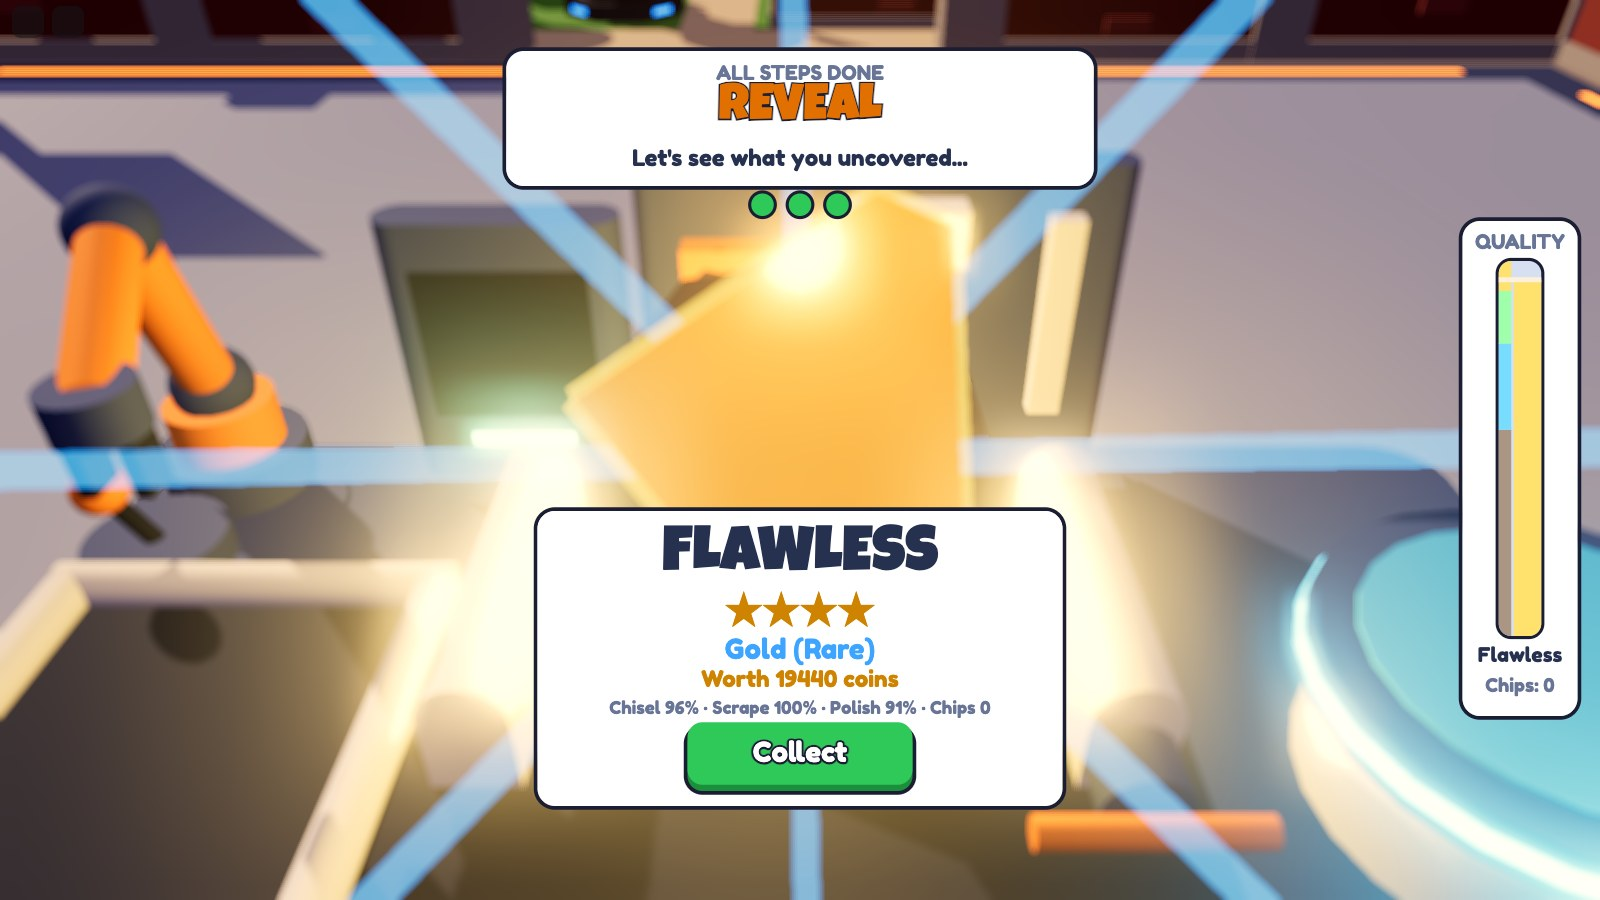
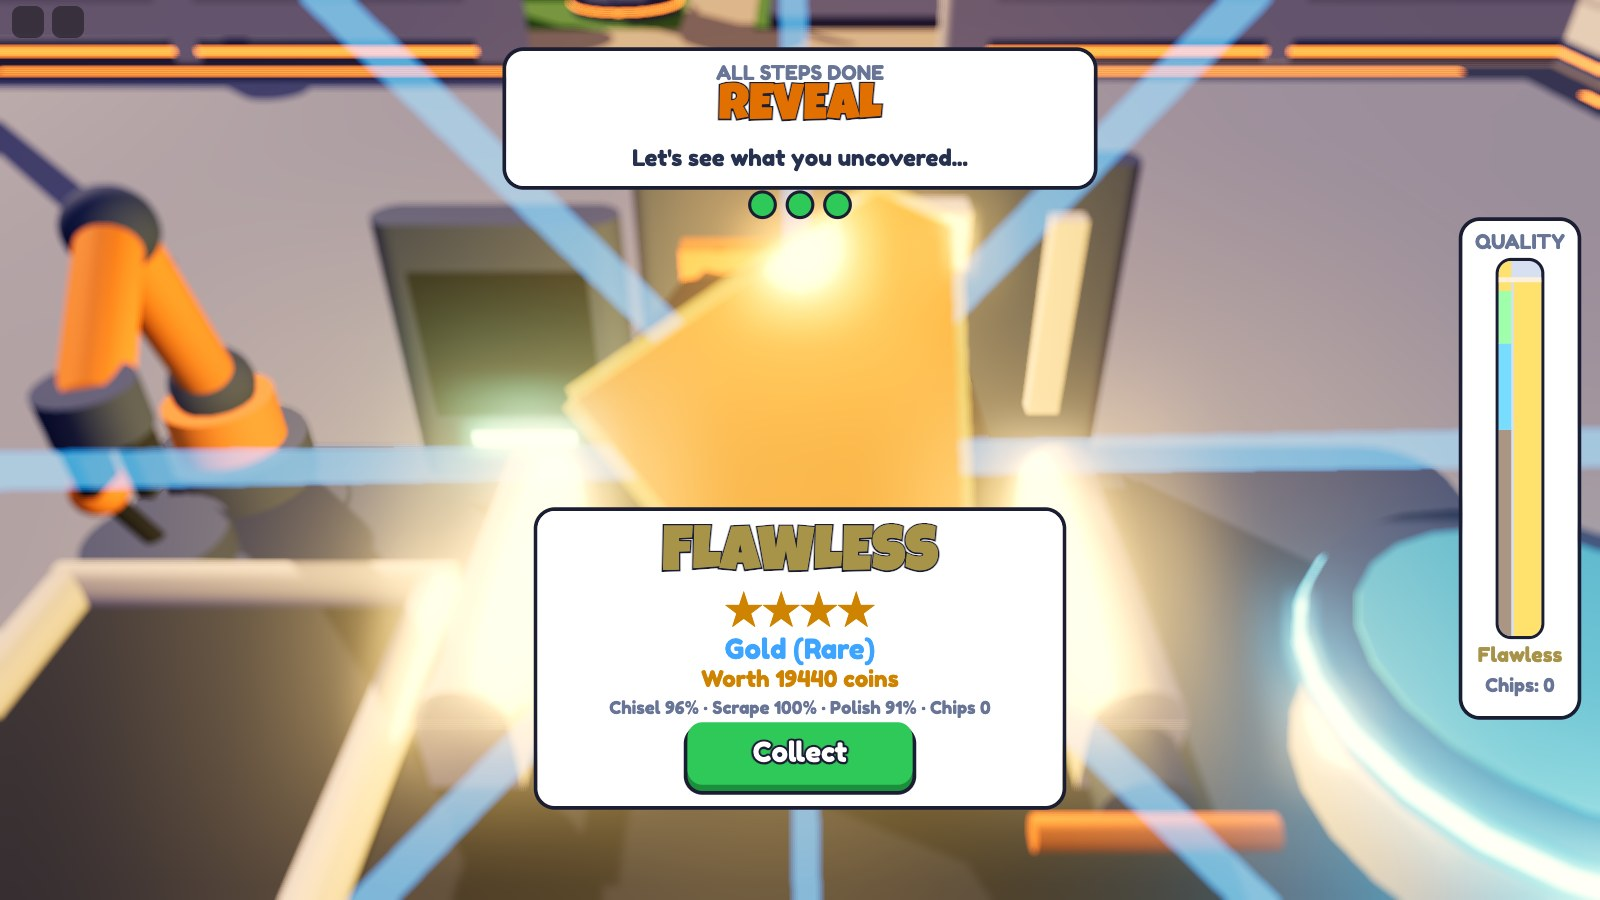
Light UI ON: UIConfig.Default = true; DECK/GROUND, STAR FORGE and rarity colours in the light look
- the switch: UIConfig.Default = true (owner's go 2026-10-20, relayed by the watcher)
- BuildView's light path gets the platforms' DECK / GROUND toggle (setLayer
  writes the light button's label)
- LightSkin maps the STAR FORGE tabs (RebirthView.Colors) and keeps bright
  rarity / grade colours' hue a shade darker on light panels instead of ink
  (the cleaning and relic card)
- HudBubble.EntryLooks: Rebirth (rebirth icon, Rebirth role); HOVER gets a
  hoverboard emoji stand-in
- yard / vault_shop previews follow UIConfig.Default
- elevator window + ride, hoverboard panel, crate opening, loading screen keep
  their own look on purpose
- handoff doc + overview picture docs/screenshots/ui_light_game/prehled_zapnuto.jpg
- check.sh: ALL CHECKS PASSED, 1476 passed / 0 failed

diff --git a/docs/handoff/UI_LIGHT_SWITCH_ON.md b/docs/handoff/UI_LIGHT_SWITCH_ON.md
@@ -1,47 +1,37 @@
-# Turning the light UI on (after the owner's ANO)
+# The light UI is ON (2026-10-20)
 
-**Pro majitele:** Nové světlé UI je hotové a schované ve hře za vypínačem, který je zatím vypnutý. Až napíšeš „ano“, zapnu ho jedním přepínačem a sloučím ho do hlavní verze hry. Ikonky se ukážou, až nahraješ 5 obrázků ze složky `NAHRAJ_DO_ROBLOXU/ikony_ui` a pošleš mi jejich čísla. Kdyby se ti po zapnutí něco nelíbilo, vypnu ho zpátky během pár minut a hra bude vypadat přesně jako dnes.
+**Pro majitele:** Nové světlé UI je zapnuté (`ui/light`, čeká na sloučení do hlavní verze hry). Ikonky zatím ukazují smajlíky, dokud nenahraješ 5 obrázků ze složky `NAHRAJ_DO_ROBLOXU/ikony_ui` a nepošleš mi jejich čísla. Kdyby se ti něco nelíbilo, vypnu ho zpátky během pár minut a hra bude vypadat jako předtím.
 
-Branch `ui/light` (worktree `projekt/.claude/worktrees/ui-light`), everything behind
-`UIConfig.LightUI` (`src/shared/Config/UIConfig.luau`), which ships **false**. While it is false every
-player sees today's UI (`tests/LightUI.spec.luau` checks it). Studio test without code changes:
-`NoveUI_TEST.rbxl` in the KIT folder (Workspace attribute `LightUI = true` baked in), or set that
-attribute on Workspace in any place before Play.
+Branch `ui/light` (worktree `projekt/.claude/worktrees/ui-light`). The switch is `UIConfig.Default`
+(`src/shared/Config/UIConfig.luau`), **true** since the owner's go (2026-10-20, relayed by the
+watcher). The test runner pins `LightUI = false` (`tools/lune/test.luau`) so the old-path specs keep
+testing the dark UI; `tests/LightUI.spec.luau` switches it on itself. Overview picture:
+`docs/screenshots/ui_light_game/prehled_zapnuto.jpg`.
 
 ## What the switch changes
-- HUD (`HudView` → `HudBubble`, same refs), teleport tabs + LIFT tile, BUILD tile, offline popup.
-- Windows: Blaster Vault, build mode, Ore Pen (own light code); Sell, Tech Shop, Train, Iron Box,
-  Foundry, Cleaning, Tutorial (`LightSkin` on the same windows).
+- HUD (`HudView` → `HudBubble`, same refs), teleport tabs (BASE / LOBBY / VAULT), the left tiles
+  (BACKPACK, GOLEMS, BUILD, SHOP, ELEVATOR + MORE flyout from `SideMenuView.Entries`; the old side
+  column hides), offline popup.
+- Windows: Blaster Vault, build mode (incl. the DECK / GROUND toggle), Ore Pen (own light code);
+  Sell, Tech Shop, Train, Iron Box, Foundry, Cleaning (incl. the relic card), Tutorial, the steps 6-7
+  windows, MenuPanel windows (Codex, Settings, Boards, STAR FORGE rebirth) wear `LightSkin`.
+- Icons: 3D pictures from `IconAssets` once the 5 sheet ids are in; until then `Bubble.icon` shows
+  an emoji (`IconAssets.fallback`).
 - World: every BillboardGui gets the navy-edged light labels; every ProximityPrompt shows the light
   pill (`LightWorldController`). The mine floors' `RockLabel` is skipped (its owner styles it).
 - Devices: gold gamepad selection outline, D-pad order in the left menu and the tabs, safe insets,
   touch controls hidden while a light window is open.
-- Not converted yet: the steps 6-7 windows (capsules, golems, wheel, codex, artifacts, boards,
-  settings, gear, enchants, boosts, Robux store). They keep the dark look until converted.
-  The elevator window stays dark on purpose (owner).
+- Stay in their own look on purpose: the elevator window and its ride (owner), the hoverboard panel
+  (the elevator's neon sibling), the crate opening and the loading screen.
 
-## Order after the ANO
-1. **Merge main into `ui/light`** (`git fetch origin && git merge origin/claude/keen-wozniak-mx7azn`), fix
-   conflicts (expect small ones at the top of `HudView`, `TeleportView`, `TechShopView`, `render.mjs`:
-   keep both sides; the light paths are always `if UIConfig.lightUI() / if topBar:GetAttribute("Bubble")`
-   branches next to the old code), `bash tools/check.sh` → ALL CHECKS PASSED.
-2. **Icons**: the owner uploads `ikony_1_ui.png` … `ikony_5_artefakty.png` (guide:
+## Still to do
+1. **Icons**: the owner uploads `ikony_1_ui.png` … `ikony_5_artefakty.png` (guide:
    `NAHRAJ_DO_ROBLOXU/ikony_ui/NAVOD.md`) and sends 5 ids → paste them into `IconAssets.Sheets[*].Id`
-   (`src/shared/Config/IconAssets.luau`, in the sheet order: Ui, Golems, Machines, Menus, Artifacts).
-   Without ids the UI still works (tiles show their labels, no pictures).
-3. **Flip the switch**: `UIConfig.LightUI = true`. Answer the owner's LIFT question first if it came
-   (4th tab or left tile; today it is a left tile, `HudBubble.GameMenu`).
-4. `bash tools/check.sh`, rebuild the place (`bash tools/build.sh`, commit `build/TerraForge.rbxl`
-   only on the main branch, never on `ui/light`), render `docs/screenshots/ui_light_game/` again
-   (`LIGHT_UI` is now the default, so the normal preview commands show the light UI).
-5. **Ping "TERRA FORGE Roblox hra vývoj"** (the integrator) and wait for its "ok" before merging
-   `ui/light` into `claude/keen-wozniak-mx7azn`; it re-runs check + rebake. Then push.
-6. Tell the chats that wait for this: "Úrovně a vzhled min" (RockLabel, ElevatorRideView,
-   HoverboardView in style A), "Design zbraní a blasterů" (Vault / crate opening already light),
-   "Zlepšení hor v pozadí" (loading screen in style A).
-7. Convert the steps 6-7 windows once they are on main (`docs/plans/UI_LIGHT_PLAN.md`: the preview
-   builders `CapsuleBubble`, `GolemsBubble`, `WheelBubble`, `CodexBubble`, `ArtifactsBubble`,
-   `BoardsBubble`, `GearBubble`, `EnchantBubble`, `ShopBubble` already exist).
+   (in the sheet order: Ui, Golems, Machines, Menus, Artifacts). The emoji stand-ins go away by
+   themselves.
+2. Landing: the integrator ("TERRA FORGE Roblox hra vývoj") merges `ui/light` into
+   `claude/keen-wozniak-mx7azn`, re-runs check + rebake. `build/TerraForge.rbxl` is committed only on
+   the main branch, never on `ui/light`.
 
 ## What to watch for (first Studio play with the switch on)
 - Phone (Device emulator 667x375 and 568x320): coins, tabs and the left tiles don't meet; the
@@ -55,7 +45,7 @@ attribute on Workspace in any place before Play.
   some text ends up white on white, that colour is missing from `LightSkin` BACKGROUNDS / INK.
 
 ## Turning it back off fast
-- One line: `UIConfig.LightUI = false` in `src/shared/Config/UIConfig.luau`, commit, publish. Every
+- One line: `UIConfig.Default = false` in `src/shared/Config/UIConfig.luau`, commit, publish. Every
   light path is behind that flag, so the game looks exactly like before the switch.
-- For a single test server or Studio: remove / untick the Workspace attribute `LightUI`.
+- With it off, the Workspace attribute `LightUI = true` turns it on for a single test server / Studio.
 - Nothing in the save data depends on the light UI, so switching back and forth is safe.
